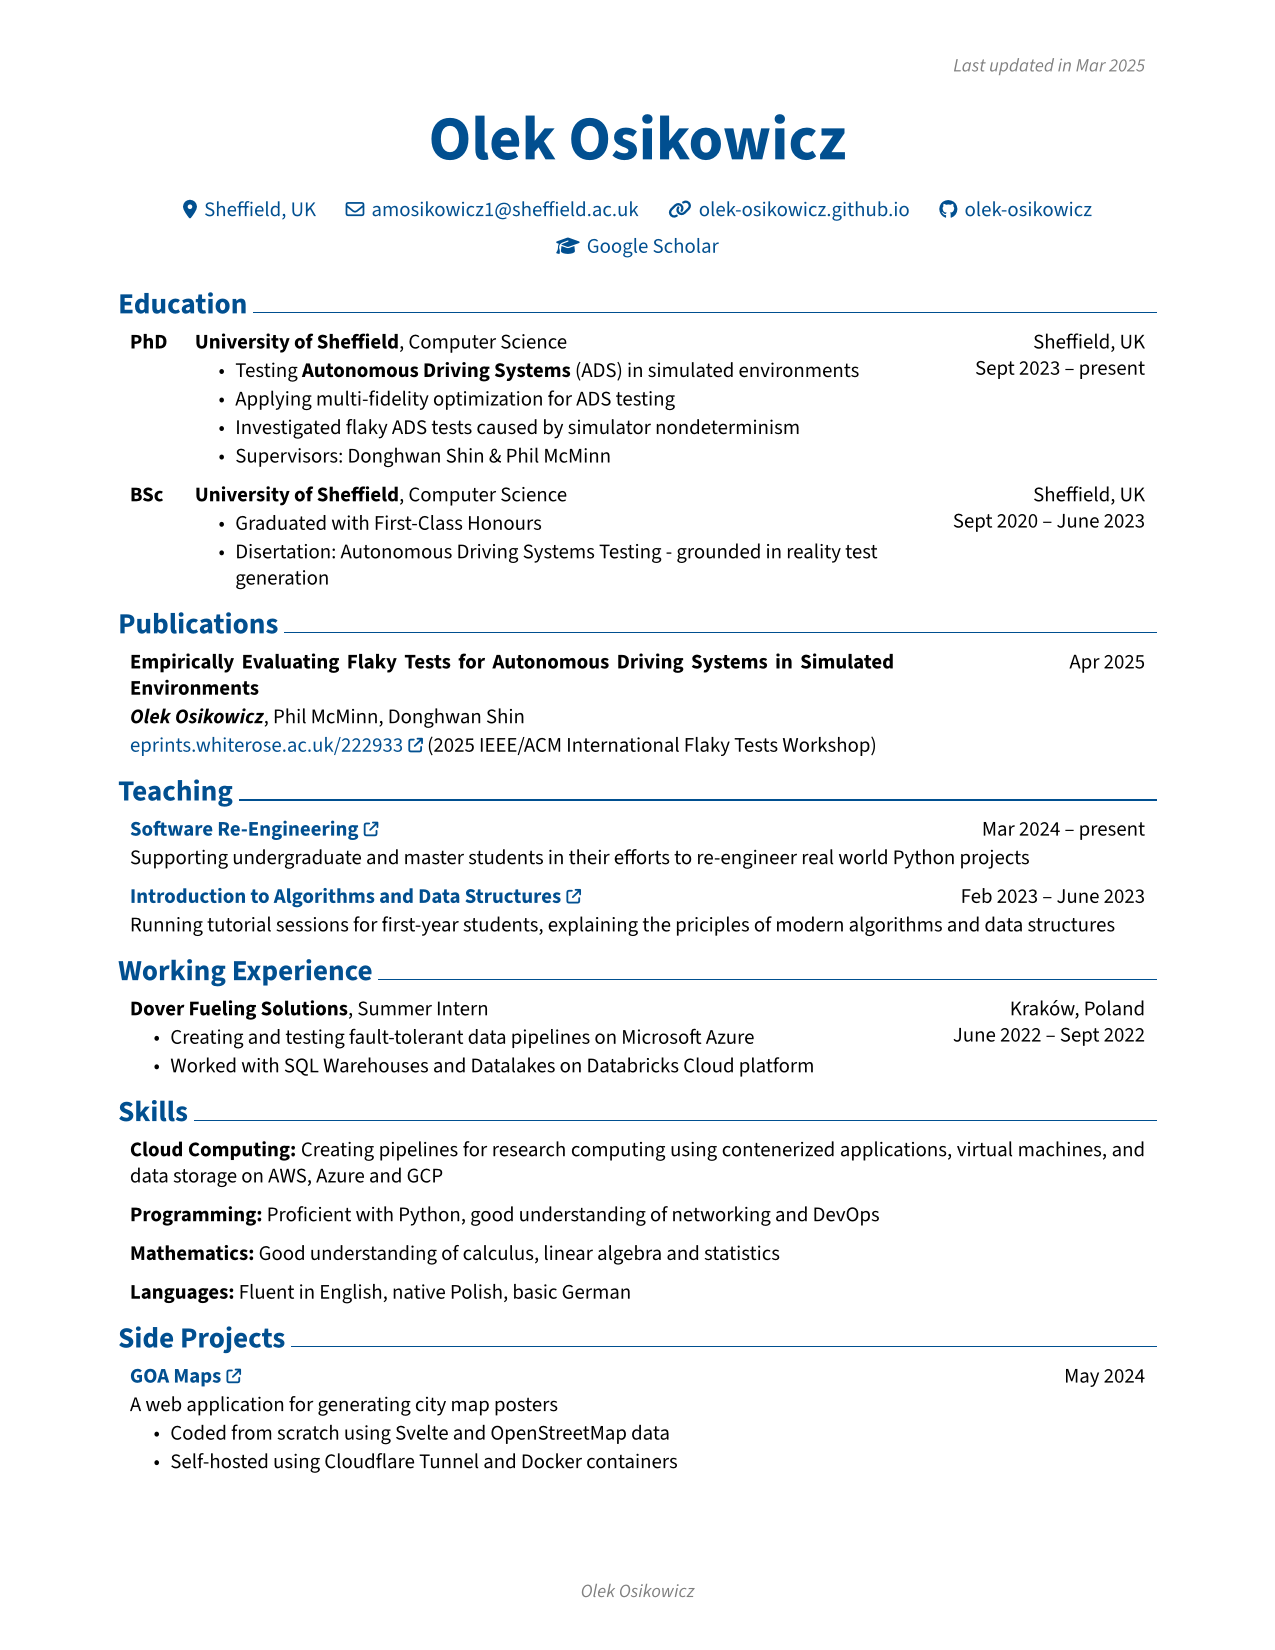
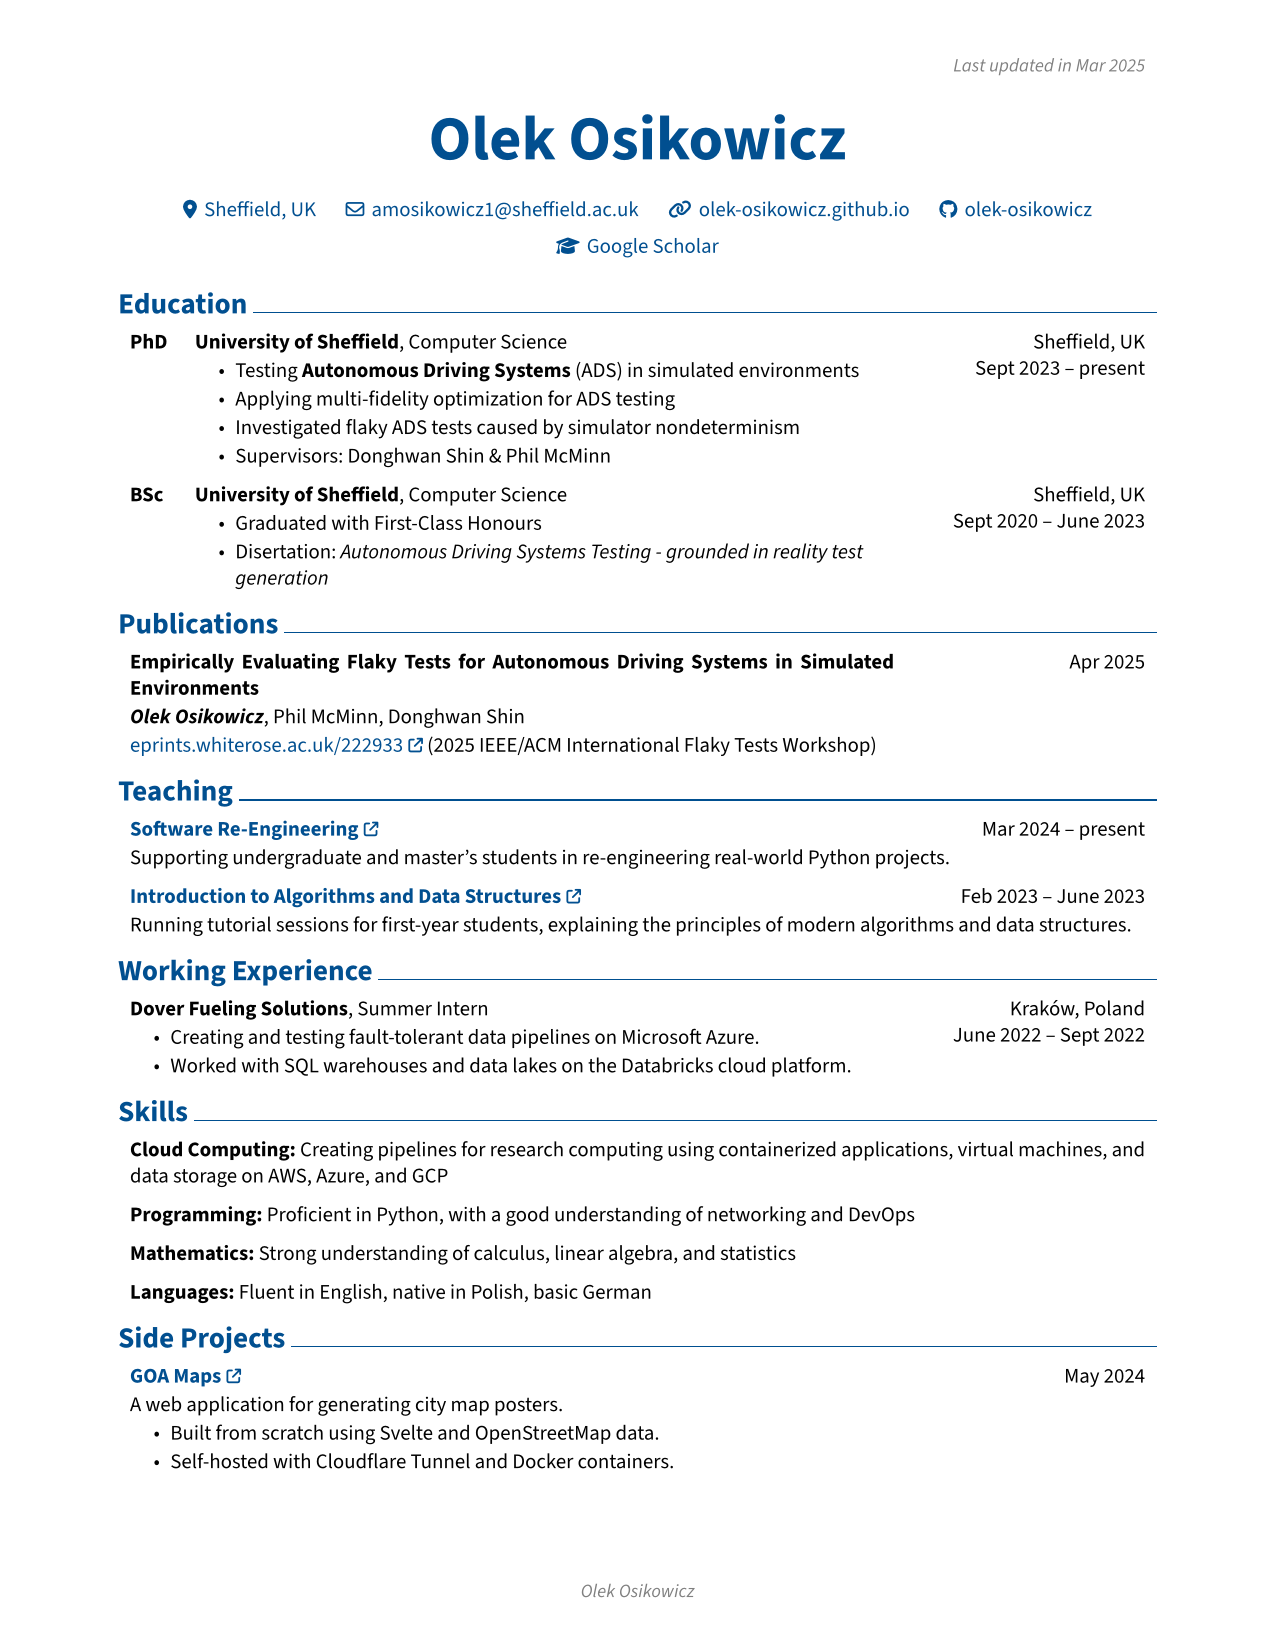
Improved spelling

diff --git a/rendercv_output/Olek_Osikowicz_CV.html b/rendercv_output/Olek_Osikowicz_CV.html
@@ -62,7 +62,7 @@
         <li>Sept 2020 – June 2023</li>
         <li>Sheffield, UK</li>
         <li>Graduated with First-Class Honours</li>
-        <li>Disertation: Autonomous Driving Systems Testing - grounded in reality test generation</li>
+        <li>Disertation: <em>Autonomous Driving Systems Testing - grounded in reality test generation</em></li>
         </ul>
         <h1>Publications</h1>
         <h2>Empirically Evaluating Flaky Tests for Autonomous Driving Systems in Simulated Environments (<a href="eprints.whiterose.ac.uk/222933">https://eprints.whiterose.ac.uk/222933/</a>)</h2>
@@ -85,22 +85,22 @@
         <ul>
         <li>June 2022 – Sept 2022</li>
         <li>Kraków, Poland</li>
-        <li>Creating and testing fault-tolerant data pipelines on Microsoft Azure</li>
-        <li>Worked with SQL Warehouses and Datalakes on Databricks Cloud platform</li>
+        <li>Creating and testing fault-tolerant data pipelines on Microsoft Azure.</li>
+        <li>Worked with SQL warehouses and data lakes on the Databricks cloud platform.</li>
         </ul>
         <h1>Skills</h1>
         <ul>
-        <li>Cloud Computing: Creating pipelines for research computing using contenerized applications, virtual machines, and data storage on AWS, Azure and GCP</li>
-        <li>Programming: Proficient with Python, good understanding of networking and DevOps</li>
-        <li>Mathematics: Good understanding of calculus, linear algebra and statistics</li>
-        <li>Languages: Fluent in English, native Polish, basic German</li>
+        <li>Cloud Computing: Creating pipelines for research computing using containerized applications, virtual machines, and data storage on AWS, Azure, and GCP.</li>
+        <li>Programming: Proficient in Python, with a good understanding of networking and DevOps.</li>
+        <li>Mathematics: Strong understanding of calculus, linear algebra, and statistics.</li>
+        <li>Languages: Fluent in English, native in Polish, basic German.</li>
         </ul>
         <h1>Side Projects</h1>
         <h2><a href="https://goamaps.org/">GOA Maps</a></h2>
         <ul>
         <li>May 2024</li>
-        <li>Coded from scratch using Svelte and OpenStreetMap data</li>
-        <li>Self-hosted using Cloudflare Tunnel and Docker containers</li>
+        <li>Built from scratch using Svelte and OpenStreetMap data.</li>
+        <li>Self-hosted with Cloudflare Tunnel and Docker containers.</li>
         </ul>
     </article>
 </body>

diff --git a/rendercv_output/Olek_Osikowicz_CV.md b/rendercv_output/Olek_Osikowicz_CV.md
@@ -23,7 +23,7 @@
 - Sept 2020 – June 2023
 - Sheffield, UK
 - Graduated with First-Class Honours
-- Disertation: Autonomous Driving Systems Testing - grounded in reality test generation
+- Disertation: *Autonomous Driving Systems Testing - grounded in reality test generation*
 
 # Publications
 
@@ -48,20 +48,20 @@
 
 - June 2022 – Sept 2022
 - Kraków, Poland
-- Creating and testing fault-tolerant data pipelines on Microsoft Azure
-- Worked with SQL Warehouses and Datalakes on Databricks Cloud platform
+- Creating and testing fault-tolerant data pipelines on Microsoft Azure.
+- Worked with SQL warehouses and data lakes on the Databricks cloud platform.
 
 # Skills
 
-- Cloud Computing: Creating pipelines for research computing using contenerized applications, virtual machines, and data storage on AWS, Azure and GCP
-- Programming: Proficient with Python, good understanding of networking and DevOps
-- Mathematics: Good understanding of calculus, linear algebra and statistics
-- Languages: Fluent in English, native Polish, basic German
+- Cloud Computing: Creating pipelines for research computing using containerized applications, virtual machines, and data storage on AWS, Azure, and GCP.
+- Programming: Proficient in Python, with a good understanding of networking and DevOps.
+- Mathematics: Strong understanding of calculus, linear algebra, and statistics.
+- Languages: Fluent in English, native in Polish, basic German.
 # Side Projects
 
 ## [GOA Maps](https://goamaps.org/)
 
 - May 2024
-- Coded from scratch using Svelte and OpenStreetMap data
-- Self-hosted using Cloudflare Tunnel and Docker containers
+- Built from scratch using Svelte and OpenStreetMap data.
+- Self-hosted with Cloudflare Tunnel and Docker containers.
 
